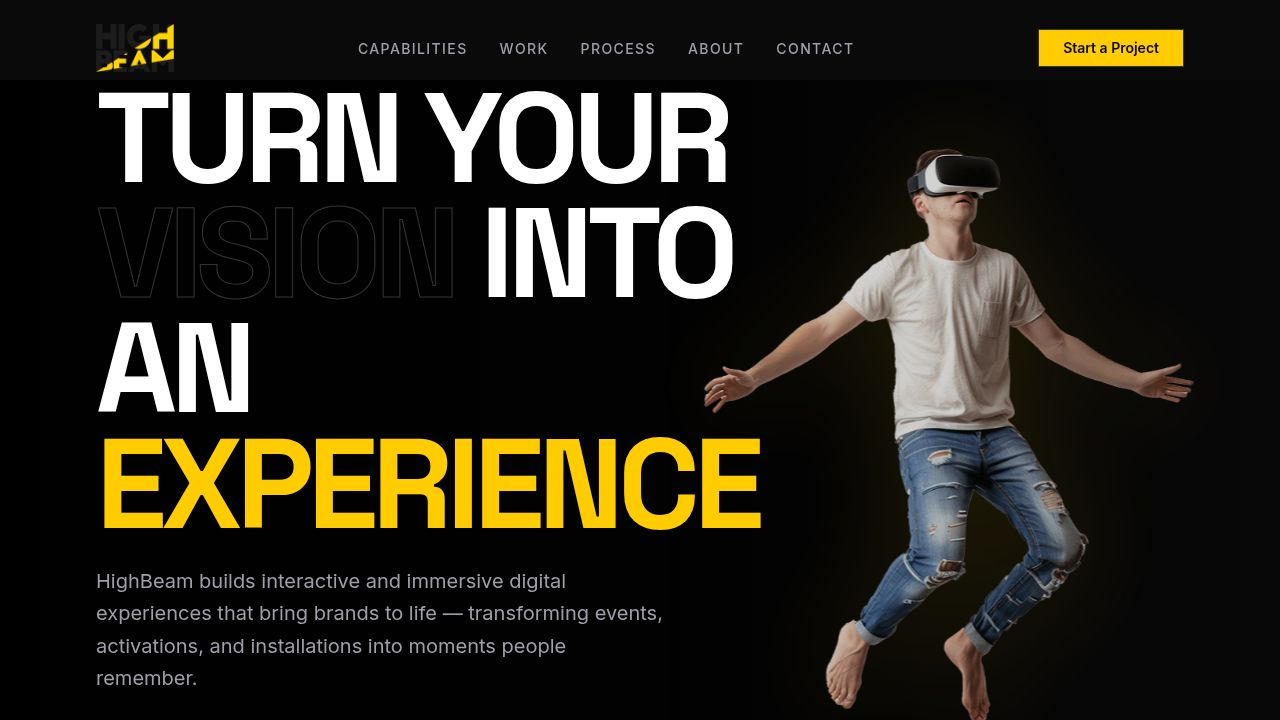
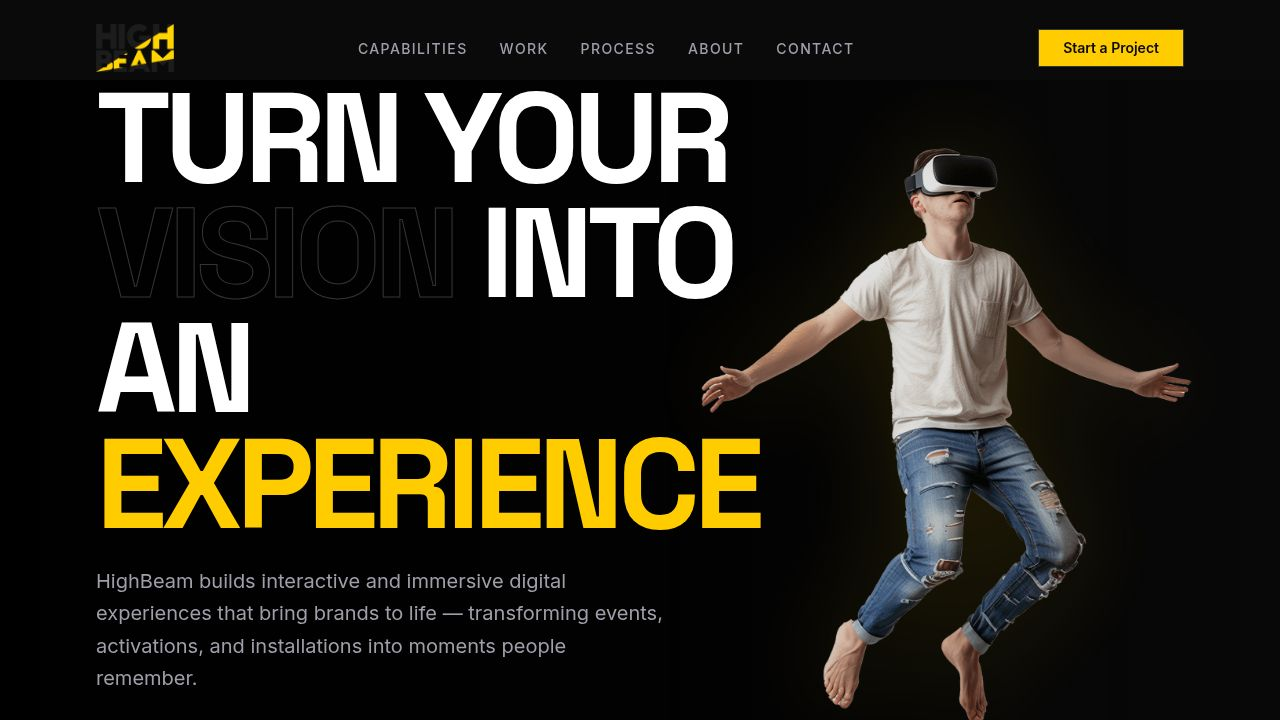
Add dynamic meta tags for work portfolio items on social media
Implement server-side rendering to inject Open Graph meta tags into the HTML for individual project detail pages, ensuring correct social media previews. Updates include modifications to the express server, a new shared projects data file, and image asset placement in the public directory. The client-side title update logic has been retained for development builds.

Replit-Commit-Author: Agent
Replit-Commit-Session-Id: 110e7742-35cf-4a37-9940-f8ac701b7a7c
Replit-Commit-Checkpoint-Type: intermediate_checkpoint
Replit-Commit-Event-Id: 9984bbfa-a379-4fd6-ab2c-f03c6ff6ab40
Replit-Commit-Screenshot-Url: https://storage.googleapis.com/screenshot-production-us-central1/c2a5a4cd-f82a-4b5d-9d42-e3c0d4943193/110e7742-35cf-4a37-9940-f8ac701b7a7c/QFBu2wo
Replit-Helium-Checkpoint-Created: true

diff --git a/server/static.ts b/server/static.ts
@@ -1,6 +1,7 @@
 import express, { type Express } from "express";
 import fs from "fs";
 import path from "path";
+import { getProjectMetaBySlug } from "@shared/projects";
 
 export function serveStatic(app: Express) {
   const distPath = path.resolve(__dirname, "public");
@@ -11,6 +12,72 @@ export function serveStatic(app: Express) {
   }
 
   app.use(express.static(distPath));
+
+  // Handle project detail pages with dynamic OG meta tags
+  app.get("/work/:slug", (req, res) => {
+    const { slug } = req.params;
+    const project = getProjectMetaBySlug(slug);
+    const indexPath = path.resolve(distPath, "index.html");
+    
+    if (!project) {
+      return res.sendFile(indexPath);
+    }
+
+    let html = fs.readFileSync(indexPath, "utf-8");
+    
+    const baseUrl = "https://highbeam.digital";
+    const ogTitle = `${project.title} | HighBeam`;
+    const ogDescription = project.shortDescription;
+    const ogImage = `${baseUrl}${project.ogImage}`;
+    const ogUrl = `${baseUrl}/work/${project.slug}`;
+
+    html = html.replace(
+      /<title>.*?<\/title>/,
+      `<title>${ogTitle}</title>`
+    );
+    html = html.replace(
+      /<meta property="og:title" content=".*?" \/>/,
+      `<meta property="og:title" content="${ogTitle}" />`
+    );
+    html = html.replace(
+      /<meta property="og:description" content=".*?" \/>/,
+      `<meta property="og:description" content="${ogDescription}" />`
+    );
+    html = html.replace(
+      /<meta property="og:url" content=".*?" \/>/,
+      `<meta property="og:url" content="${ogUrl}" />`
+    );
+    html = html.replace(
+      /<meta property="og:image" content=".*?" \/>/,
+      `<meta property="og:image" content="${ogImage}" />`
+    );
+    html = html.replace(
+      /<meta property="og:type" content=".*?" \/>/,
+      `<meta property="og:type" content="article" />`
+    );
+    html = html.replace(
+      /<meta name="twitter:title" content=".*?" \/>/,
+      `<meta name="twitter:title" content="${ogTitle}" />`
+    );
+    html = html.replace(
+      /<meta name="twitter:description" content=".*?" \/>/,
+      `<meta name="twitter:description" content="${ogDescription}" />`
+    );
+    html = html.replace(
+      /<meta name="twitter:image" content=".*?" \/>/,
+      `<meta name="twitter:image" content="${ogImage}" />`
+    );
+    html = html.replace(
+      /<meta name="description" content=".*?" \/>/,
+      `<meta name="description" content="${ogDescription}" />`
+    );
+    html = html.replace(
+      /<link rel="canonical" href=".*?" \/>/,
+      `<link rel="canonical" href="${ogUrl}" />`
+    );
+
+    res.send(html);
+  });
 
   // fall through to index.html if the file doesn't exist
   app.use("*", (_req, res) => {

diff --git a/shared/projects.ts b/shared/projects.ts
@@ -1,0 +1,37 @@
+export interface ProjectMeta {
+  slug: string;
+  title: string;
+  shortDescription: string;
+  ogImage: string;
+}
+
+export const projectsMeta: ProjectMeta[] = [
+  {
+    slug: "feedback-wall-ncsa",
+    title: "FEEDBACK WALL: Where Every Insight Becomes Part of the Big Picture",
+    shortDescription: "A real-time visualization tool transforming attendee insights into a dynamic digital mosaic.",
+    ogImage: "/og-images/feedback-wall.png"
+  },
+  {
+    slug: "fifa-arab-cup-fan-wall",
+    title: "FIFA ARAB CUP FAN WALL: Your Name, Your Jersey, Your Moment",
+    shortDescription: "An immersive fan activation turning personal data into large-scale, shareable digital content.",
+    ogImage: "/og-images/fifa-fan-wall.png"
+  },
+  {
+    slug: "dfi-golden-voice-studio",
+    title: "DFI GOLDEN VOICE STUDIO: Step In, Speak Up, Star in Your Own Scene",
+    shortDescription: "An interactive recording studio experience celebrating the art of voice acting and dubbing.",
+    ogImage: "/og-images/golden-voice.png"
+  },
+  {
+    slug: "qcert-vr-training",
+    title: "QCERT VR TRAINING: Learning to Respond, One Real Scenario at a Time",
+    shortDescription: "A VR training experience that teaches cyber security response through immersive, realistic scenarios.",
+    ogImage: "/og-images/qcert-vr.jpg"
+  }
+];
+
+export function getProjectMetaBySlug(slug: string): ProjectMeta | undefined {
+  return projectsMeta.find(p => p.slug === slug);
+}

diff --git a/client/src/pages/project-detail.tsx b/client/src/pages/project-detail.tsx
@@ -6,7 +6,7 @@ import { useRoute, Link } from "wouter";
 import { projects } from "@/lib/data";
 import NotFound from "./not-found";
 import { motion, useScroll, useTransform } from "framer-motion";
-import { useRef } from "react";
+import { useRef, useEffect } from "react";
 import {
   Carousel,
   CarouselContent,
@@ -25,9 +25,18 @@ export default function ProjectDetailPage() {
 
   const y = useTransform(scrollYProgress, [0, 1], ["0%", "30%"]);
   
+  const project = match ? projects.find(p => p.slug === params.slug) : null;
+  
+  useEffect(() => {
+    if (project) {
+      document.title = `${project.title} | HighBeam`;
+    }
+    return () => {
+      document.title = 'HighBeam | Experiential Tech Studio';
+    };
+  }, [project]);
+  
   if (!match) return <NotFound />;
-
-  const project = projects.find(p => p.slug === params.slug);
   
   if (!project) return <NotFound />;
 
